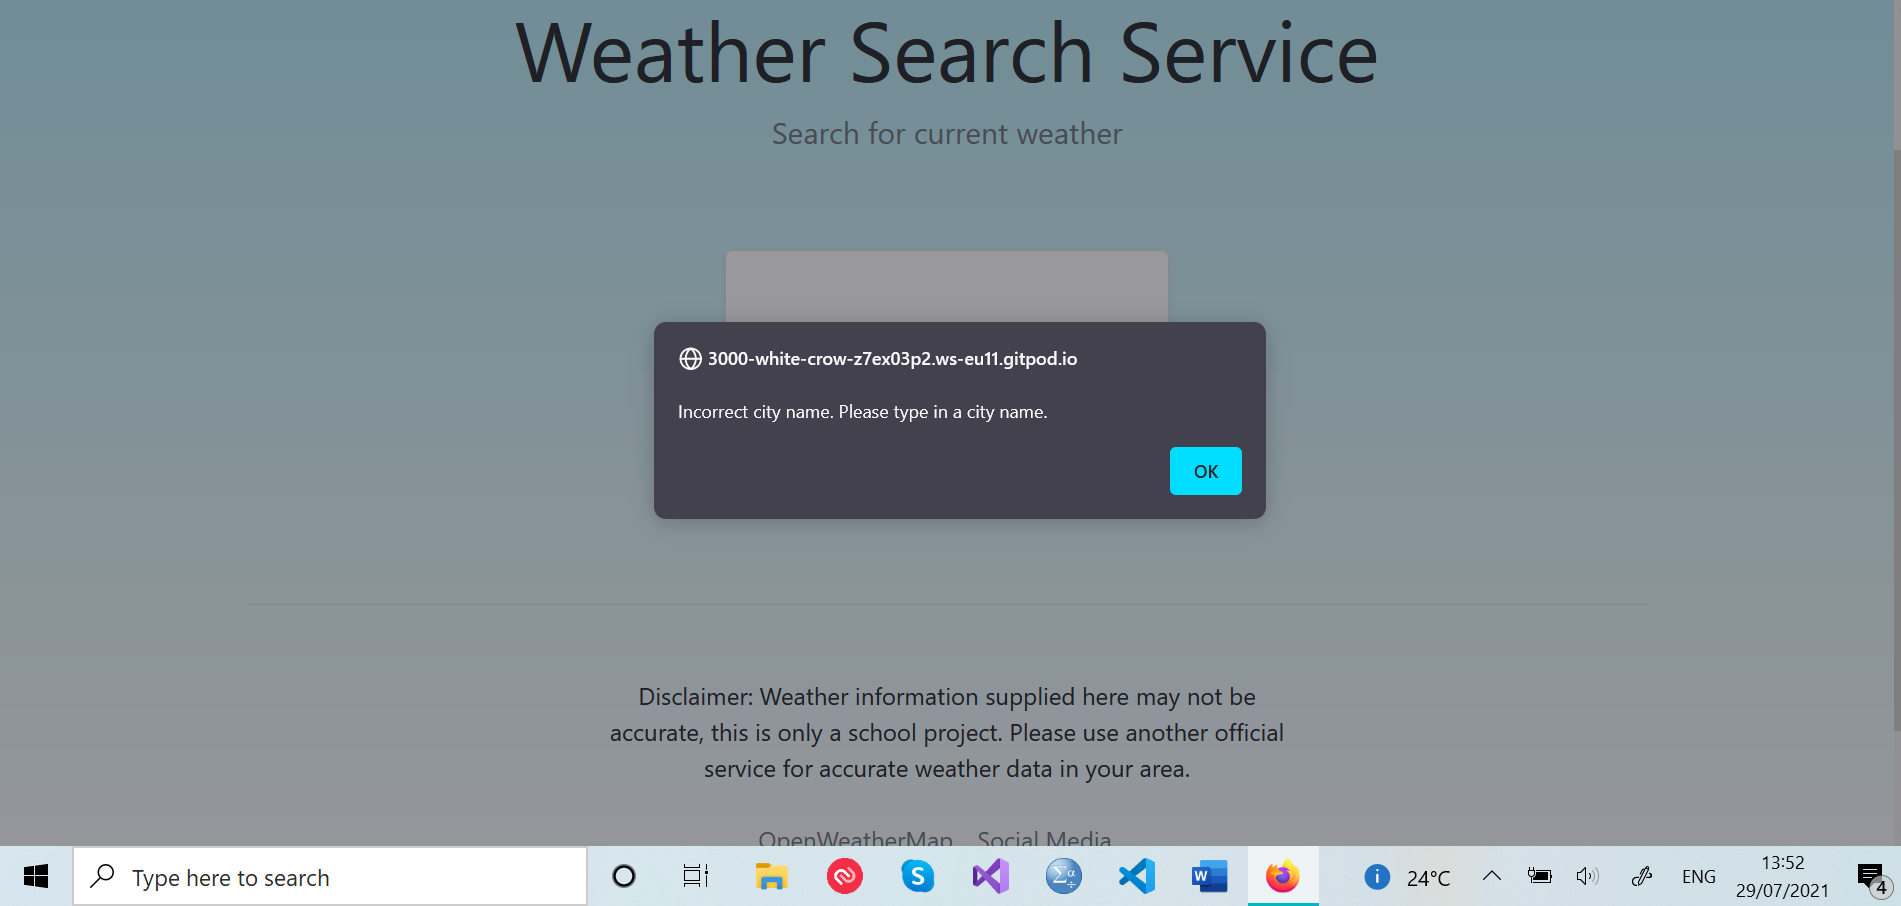
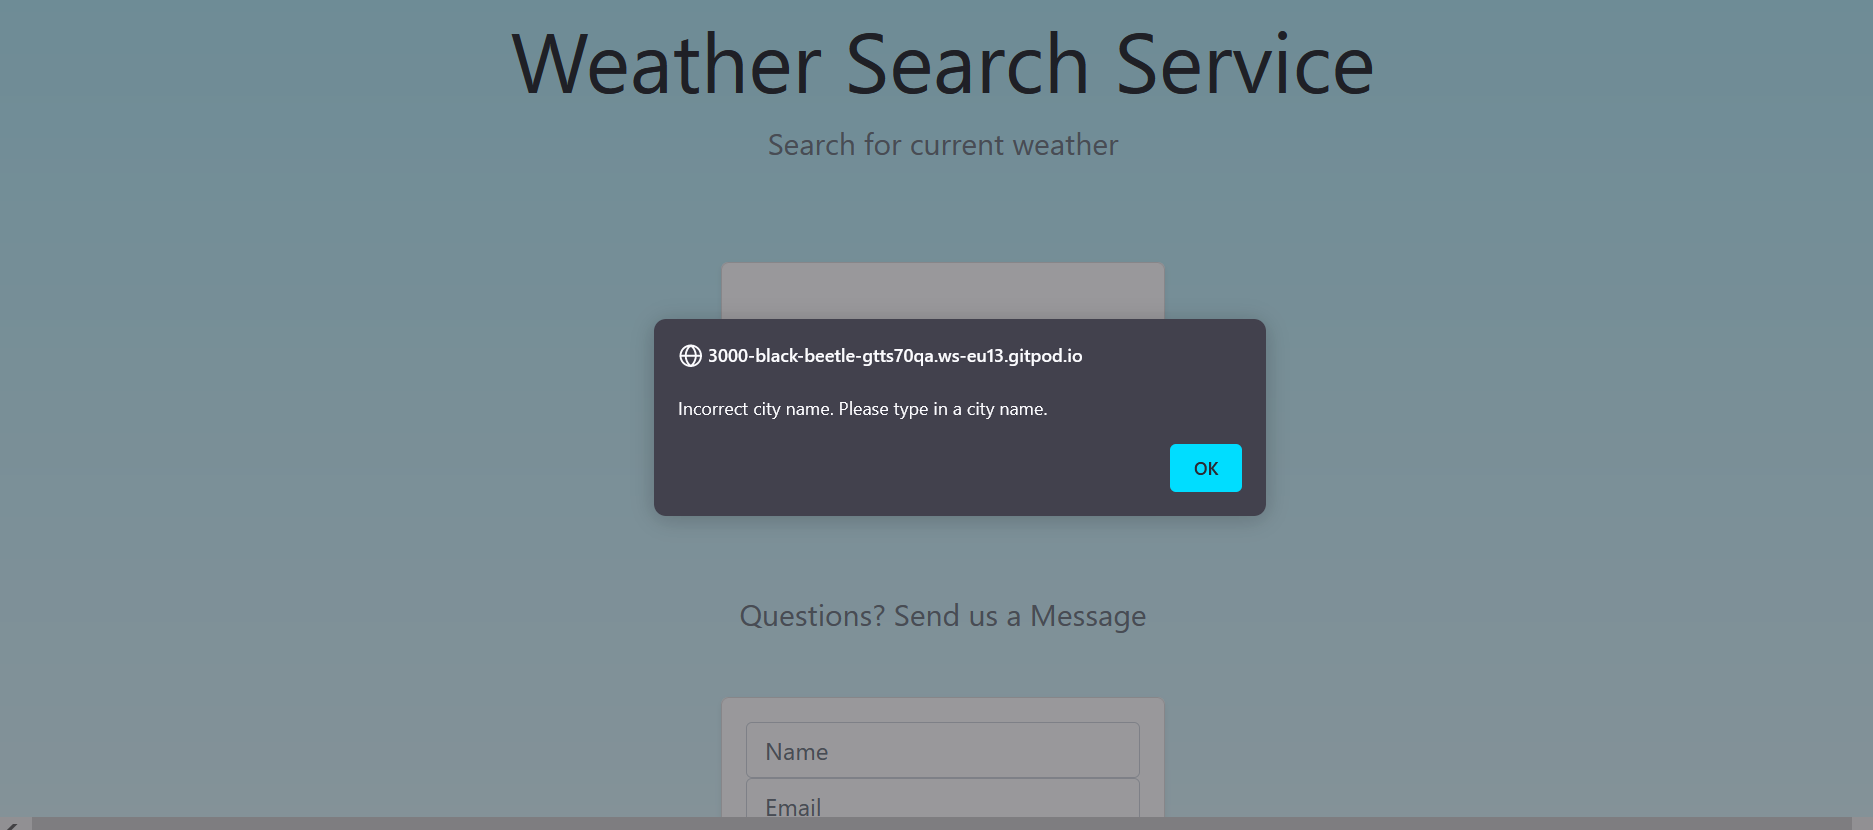
finished readme added images and alert for submission of empty weather searchbar

diff --git a/script.js b/script.js
@@ -6,6 +6,7 @@ searchButton.addEventListener('click', (e) => {
     let xhr = new XMLHttpRequest();
     
     xhr.open('GET', `https://api.openweathermap.org/data/2.5/weather?q=${input.value}&appid=191d5fa7b2969d0320a7c9e00936f23c&units=metric`);
+    xhr.timeout = 2000;
     xhr.onreadystatechange = function() {
         if(this.readyState === XMLHttpRequest.DONE && this.status == 200) {
             let response = JSON.parse(this.response);
@@ -19,11 +20,15 @@ searchButton.addEventListener('click', (e) => {
             `      
              
         } else if (this.readyState === XMLHttpRequest.DONE && this.status == 404){
-            alert ('Incorrect city name. Please type in a city name.'); // Alerts if wrong input, ie no city written. Fixed now. 
+            alert ('Incorrect city name. Please type in a city name.'); // Alerts if wrong input, bad request. 
+        } else if (this.readyState === XMLHttpRequest.DONE && this.status == 400){
+            alert ('Please type in a city name.'); // Alerts if no input in the text field, bad request. 
         } 
+
         document.getElementById('userInput').value = ""; // Clears input box from typed name after search performed
         
-    } 
+    }
+
      xhr.send();
     
 })

diff --git a/README.md b/README.md
@@ -52,7 +52,8 @@ Features include: landing page, searchbox, result weather infocard, alert error,
 
   - User has the opportunity to submit a contact request form with the help of EmailJS service. 
   - Required submission parametres include name, email and message. Email service the set up at EmailJS, receiving the submitted message from user. 
-  - To use EmailJS as a service, sign up is required. 
+  - Autoreply from EmailJS set up, sending an email to user that the email has been received, and that the WeatherApp team will get back to you as soon as possible.
+  - To use EmailJS as a service, individual sign up is required. Follow 
 
   ![Contact](https://github.com/AnnieBRGit/MS2_Project_WeatherApp_CI/blob/main/images/Screenshot%20(182).png)
 
@@ -130,6 +131,7 @@ References:
 - Instructions on correct math.round syntax for rendered temperature from [Alan](https://alan.app/docs/server-api/built-in-javascript-libraries).
 - Instructions on "document.getElementById results to null even if API call successful" fix ( move script from top to near end of body tag) from [Stackoverflow](https://stackoverflow.com/questions/26107125/cannot-read-property-addeventlistener-of-null)
 - The icons in the search results from [Openweathermap](https://openweathermap.org/weather-conditions)
+-EmailJS: email services for automated email services and auto-reply, [EmailJS](https://www.emailjs.com/)
 - Code Institute Diploma in Software Development modules Javascript Essentials and Interactive Front End Development, generally all lessons in these modules, for learning about vanilla JavaScript, jQuery and working with external resources such as APIs. 
 
 ### Media
